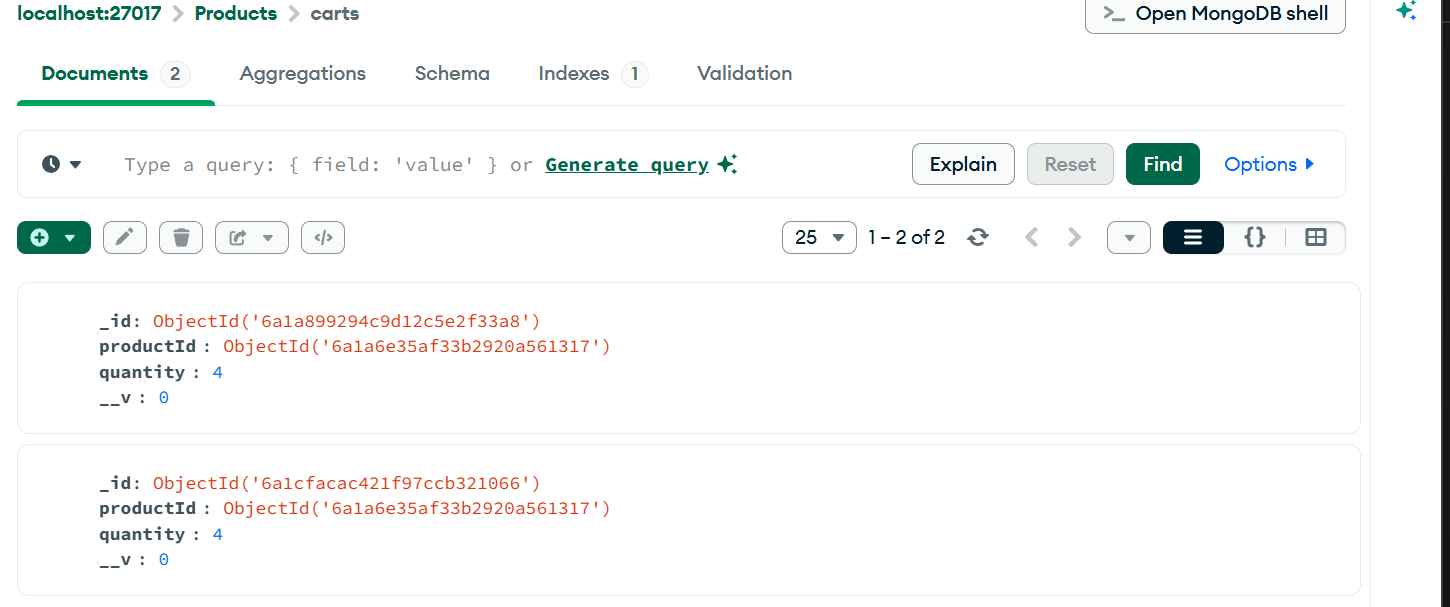
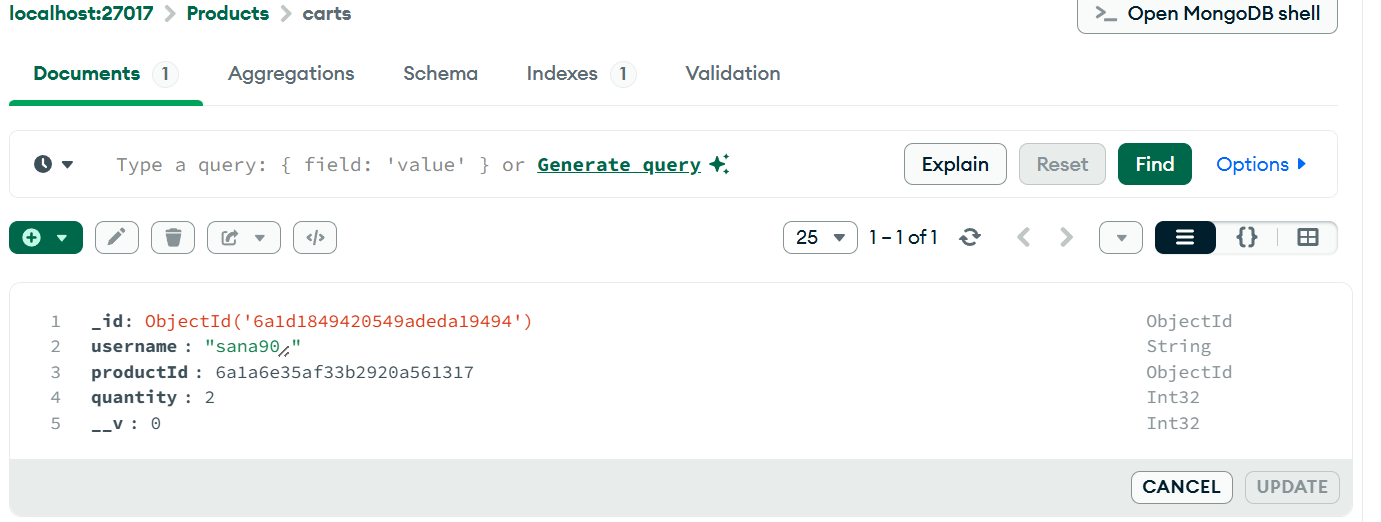
screenshots added and documentation added in readme.md

diff --git a/README.md b/README.md
@@ -2,3 +2,55 @@ Node Project
 ***********************************GITHub Link******************************************************
 https://github.com/sana2990/ShoppyGlobe-Node
 
+***************************** DESCRIPTION **********************************************************
+
+This project is a Node.js + Express + MongoDB based E-Commerce Backend API that provides functionality for user authentication, product management, and a user-specific shopping cart system.
+
+The system uses JWT (JSON Web Token) for secure authentication and ensures that each user can only access their own cart data.
+
+ Technologies Used are Node.js, Express.js, MongoDB (Mongoose ODM), JSON Web Token (JWT), Thunder Client (for API testing)
+
+ Project Setup
+Install Dependencies
+npm install express mongoose jsonwebtoken
+
+npm install nodemon --save-dev
+
+
+Start MongoDB
+Ensure MongoDB is running locally:
+mongodb://127.0.0.1:27017/Products
+
+Start MongoDB service:
+mongod
+
+Run the Server
+node server.js
+
+Server Output
+MongoDB Connected
+Server running on port 5300
+
+//Register
+You can register new user byt typing username and password in body of the thunderclient request. We dont need authetication for this.
+
+//Login
+Then the user can login by providing their credentials(username, passowrd) to create a JWT. is unique key can be used till the session expire(1hr in this case) after session expiration user has to login again to create a new token to be used further.
+
+//Get Products
+The user can pass the recieved valid token in the authorization part of the header and can get all products available
+
+//post Product
+The user can create a new product by adding all necessary details like product name, brand, stock availability, and proce of each product.
+
+//get Product by ID
+The user can also find any product by poduct id to see all details for that specific product. we need to give authorization in header and product id in the url.
+
+//get cart
+this also takes authirisation and shows the items in the cart according to the username provided in the body part. if there is no item in the cart an empty array will be returned [] ; in case the cart items have some data it will show in the array
+
+//get cart by id
+this will show the xart items based on the cart id provided in the url
+
+//delete cart item by id
+this will delete the cart items by the id provided if the username is matches to that of the cart and that the user is authorised to access.